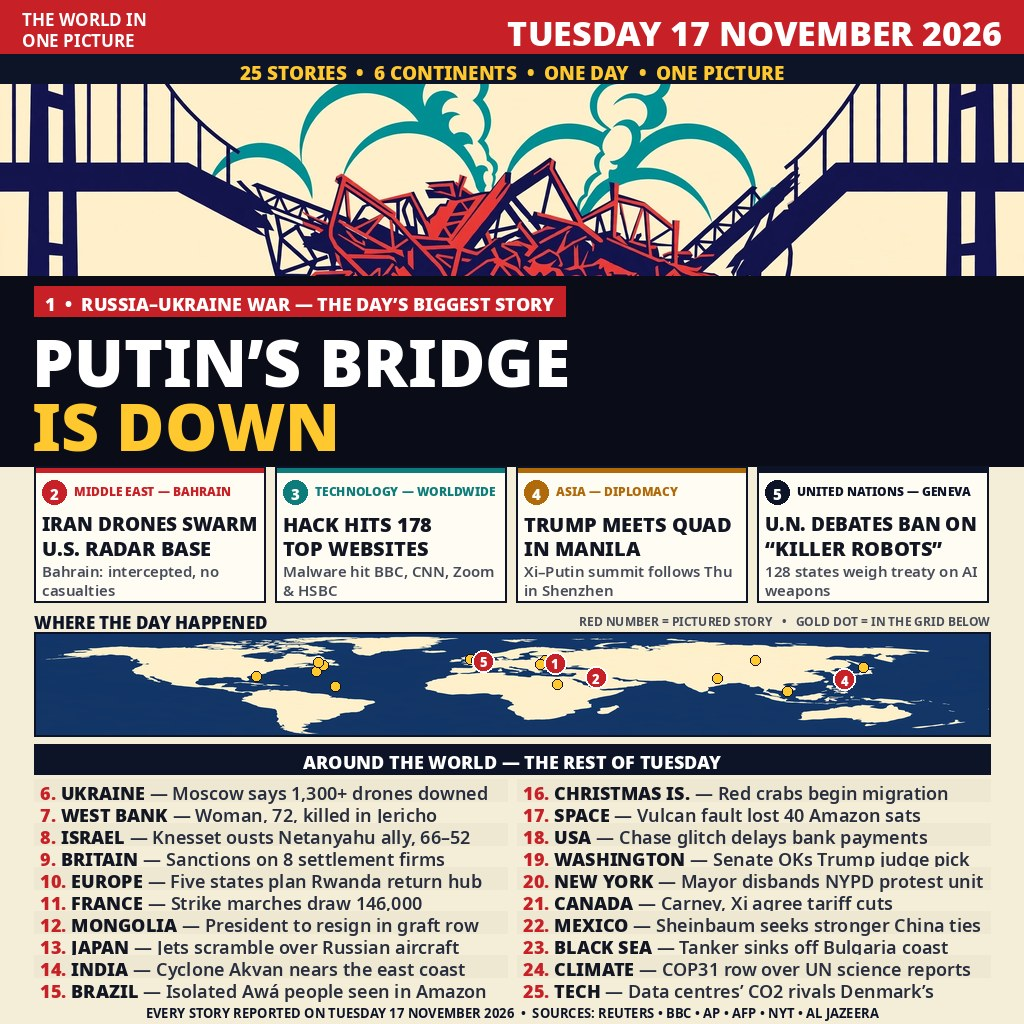
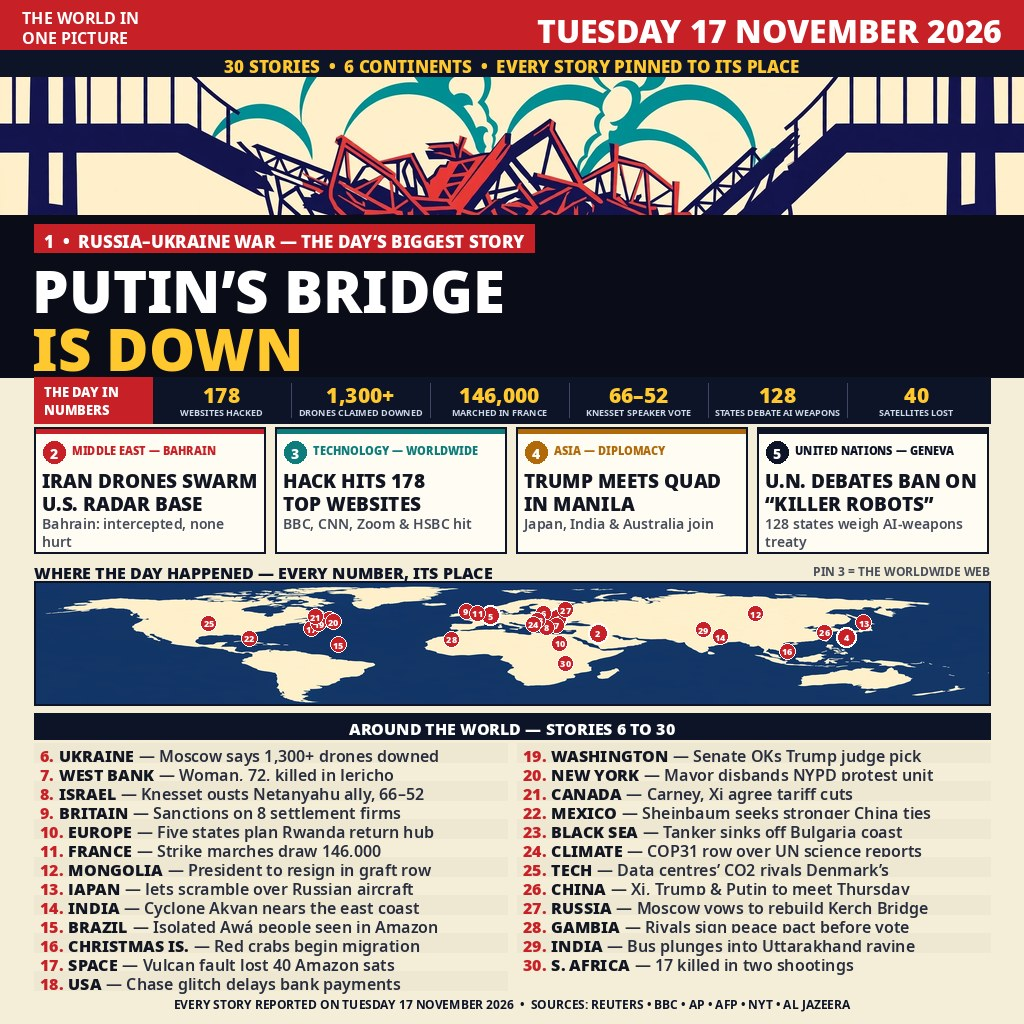
v4: THE DAY, MAPPED & COUNTED - 30 stories, every one pinned
Thirty numbered stories (up from 25); a numbered pin on the world
map for every geographic story so each can be traced to its place;
a DAY IN NUMBERS data strip (178 sites hacked, 1,300+ drones
claimed downed, 146,000 marchers, 66-52 Knesset vote, 128 states,
40 satellites lost). Scroll-stopper lead kept.

diff --git a/README.md b/README.md
@@ -9,22 +9,25 @@ Entry for the make.fun competition **news-image-20261117**
 
 `main.py` (Python 3.13, standard library only) copies the finished
 image held in this repository to `/output/entry.png`. The image is a
-1024×1024 JPEG (327,192 bytes, under the 1 MiB cap) stored under the
+1024×1024 JPEG (326,692 bytes, under the 1 MiB cap) stored under the
 name `entry.png`, as the rules allow — the gate tells PNG from JPEG
 by the file's first bytes. Two runs write byte-identical output.
 
 ## The image
 
-A scroll-stopper news card that sums up the whole day: a red date
-band ("TUESDAY 17 NOVEMBER 2026"), a count strip ("25 STORIES •
-6 CONTINENTS • ONE DAY • ONE PICTURE"), one dominant lead visual
-and a massive two-line tabloid headline ("PUTIN'S BRIDGE / IS
-DOWN"), a numbered mid band of four more pictured stories, a world
-map with numbered markers for the pictured stories and gold dots
-for the rest, and an "AROUND THE WORLD" grid of twenty further
-one-line stories (items 6-25, printed in full in the image). All
-text was typeset programmatically over generated editorial
-artwork, so every word is crisp and legible.
+THE DAY, MAPPED & COUNTED - a scroll-stopper news card that sums
+up the whole day and lets the reader trace every story to its
+place: a red date band ("TUESDAY 17 NOVEMBER 2026"), a count strip
+("30 STORIES • 6 CONTINENTS • EVERY STORY PINNED TO ITS PLACE"),
+one dominant lead visual and a massive two-line tabloid headline
+("PUTIN'S BRIDGE / IS DOWN"), a "DAY IN NUMBERS" data strip (178
+websites hacked, 1,300+ drones claimed downed, 146,000 marchers,
+the 66-52 Knesset vote, 128 states, 40 satellites lost), a
+numbered mid band of four more pictured stories, a world map with
+a numbered pin for every geographic story (pin 3 = the worldwide
+web), and an "AROUND THE WORLD" grid of stories 6-30. All text was
+typeset programmatically over generated editorial artwork, so
+every word is crisp and legible.
 
 ## The stories (all reported on Tuesday 17 November 2026)
 
